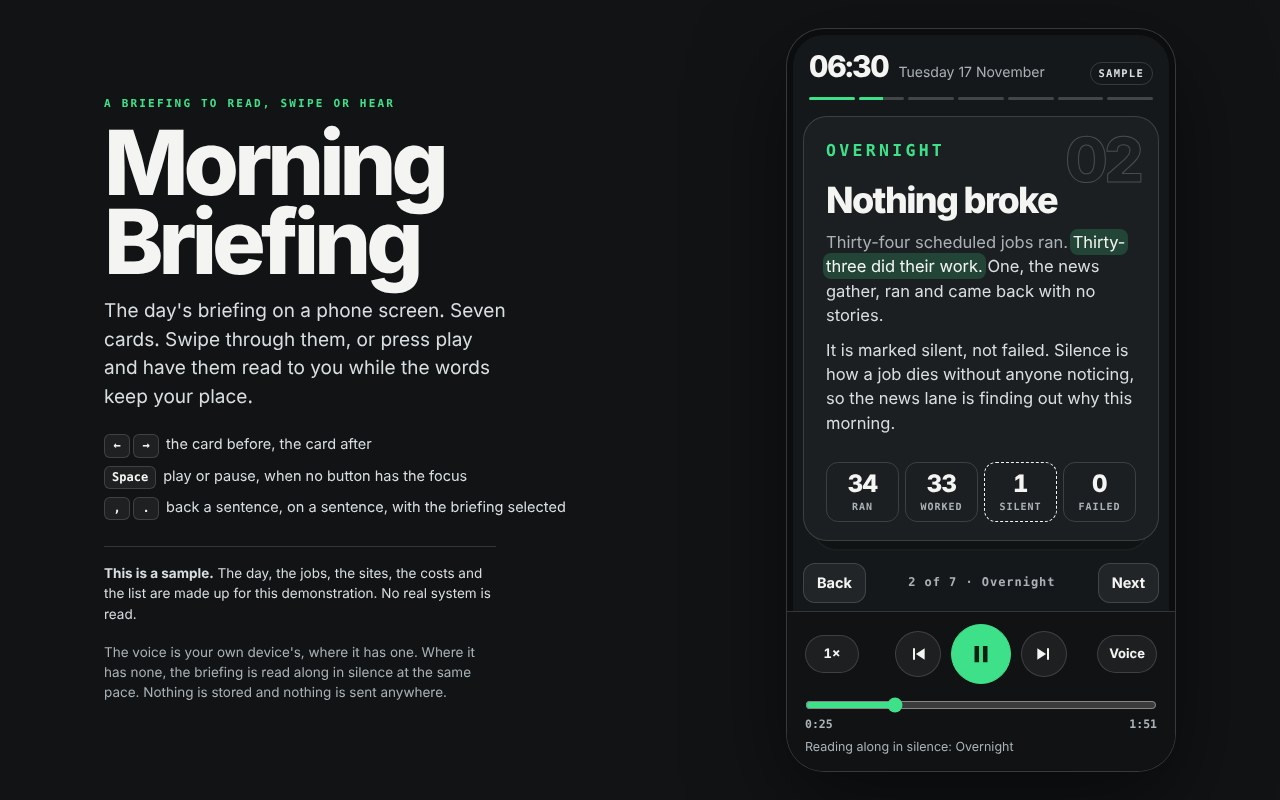
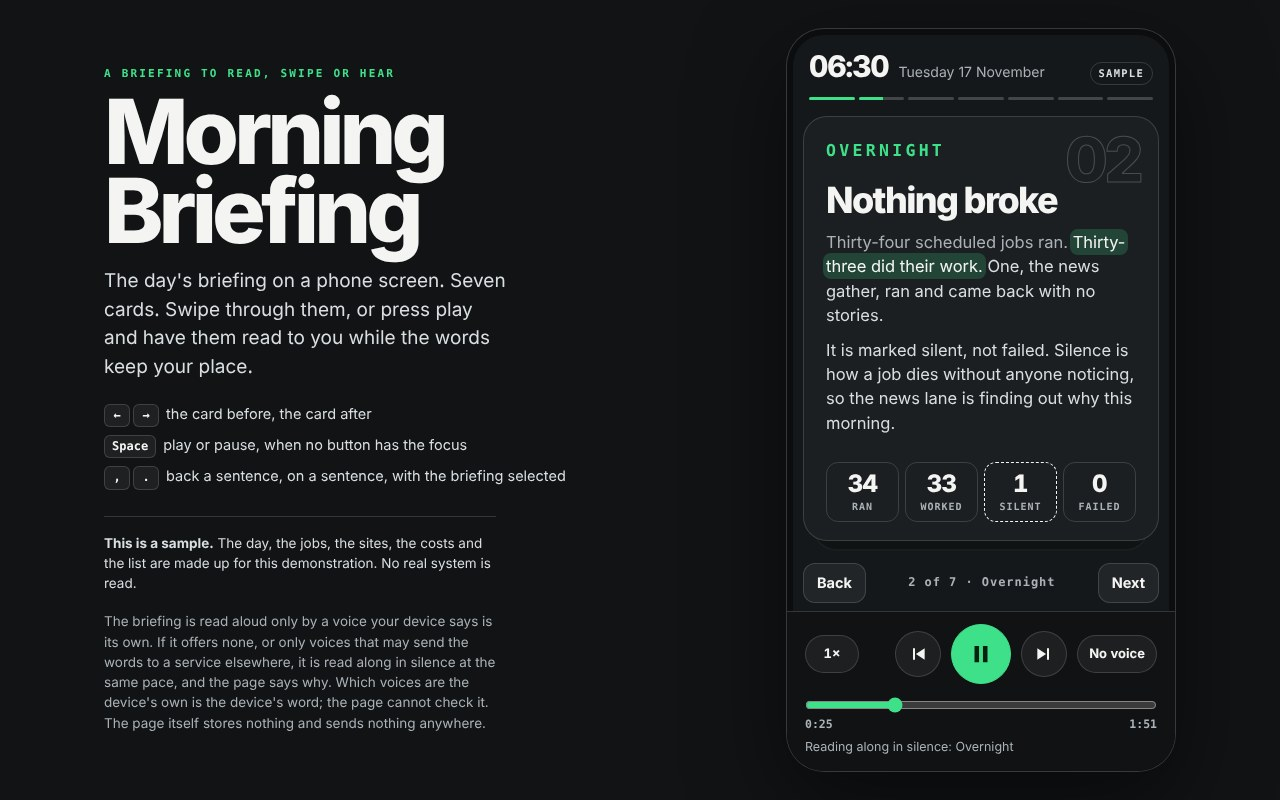
Morning Briefing: speak only through a voice the device calls its own
Acts on the outside review of pull request 141. Voice selection took any
English voice, preferred a remote British one over a local one, and fell
back to the browser's default, while the page said nothing is sent
anywhere. Now only a voice with localService === true, in English, is
given the words; the list is checked before every sentence and when the
browser says it has changed. With no such voice the briefing is read in
silence by the clock and the page says why. The promise is reworded to
what is true. README Status now says merging puts the page live at its
own address, unlisted but reachable by link.

Tests: pickVoice in the reader test; stand-in voice lists in the browser
check (local, remote only, mixed, none, foreign only, late loading, a
voice that goes away), asserting which voice each sentence was given.

Claude-Session: https://claude.ai/code/session_013B6jEDQfd86RBiChYmYX6U

diff --git a/demos/morning-briefing/js/app.js b/demos/morning-briefing/js/app.js
@@ -57,11 +57,18 @@ $('again').addEventListener('click', () => { R.seek(state, list, 0); if (state.p
    Voices go wrong in several ways: some never start, some never say they have finished, some say so at once. Each is caught, and the briefing is then read along in silence. The reader can switch the voice on again. */
 const synth = window.briefingSynth || ('speechSynthesis' in window ? window.speechSynthesis : null), Utter = window.briefingUtterance || window.SpeechSynthesisUtterance, none = !synth || !Utter;
 let voiceOn = !none, speaking = false, started = false, token = 0, manual = false, current = null, spokeAt = 0, held = 0, tooSoon = 0, stuck = 0;
-const voiced = () => voiceOn && !none;
+/* Only a voice the browser says is the device's own is ever given the words (see pickVoice in reader.js). The list is asked for again before every sentence, and again whenever the browser says it has changed: voices often arrive a moment after the page. */
+const voices = () => { if (none) return []; try { return [...(synth.getVoices() || [])]; } catch (err) { return []; } };
+let found = R.pickVoice(voices());
+const able = () => !none && !!found.voice, voiced = () => voiceOn && able();
+const why = () => R.NO_VOICE[found.why] || R.NO_VOICE.none;
+function heard() { const had = able(); found = R.pickVoice(voices()); if (able() && !had && voiceOn && state.playing) say('A voice of the device\'s own is ready. It reads from the next sentence.'); if (!able() && had) { hush(); if (state.playing) say(`${why()[0]} The briefing is read along in silence.`); } paint(); }
+if (!none) try { if (synth.addEventListener) synth.addEventListener('voiceschanged', heard); else if ('onvoiceschanged' in synth) synth.onvoiceschanged = heard; } catch (err) { /* the list is still asked for before every sentence */ }
 function hush() { token++; speaking = false; started = false; current = null; held = 0; if (synth) try { synth.cancel(); } catch (err) { /* nothing to stop */ } }
 function fail(why) { voiceOn = false; tooSoon = 0; stuck = 0; hush(); say(`${why} The briefing is read along in silence. Press Voice to try again.`); paint(); }
-function speak() { hush(); if (!voiced() || !state.playing) return; state.t = 0; const mine = token, line = list[state.i], u = new Utter(line.text); current = u; /* kept hold of: a browser may forget a voice nobody is holding, and then it never says it has finished */ u.lang = 'en-GB'; u.rate = state.rate;
-  try { const v = synth.getVoices().filter(x => /^en/i.test(x.lang)).sort((a, b) => (/GB/i.test(b.lang) ? 1 : 0) - (/GB/i.test(a.lang) ? 1 : 0))[0]; if (v) u.voice = v; } catch (err) { /* the default voice will do */ }
+function speak() { hush(); if (!voiced() || !state.playing) return;
+  const pick = R.pickVoice(voices()); if (!pick.voice) { found = pick; say(`${why()[0]} The briefing is read along in silence.`); paint(); return; } /* the device's own voice has gone since the list was last seen: nothing is given to whatever is left, and the clock carries the reading */
+  found = pick; state.t = 0; const mine = token, line = list[state.i], u = new Utter(line.text); current = u; /* kept hold of: a browser may forget a voice nobody is holding, and then it never says it has finished */ u.voice = pick.voice; u.lang = pick.voice.lang || 'en-GB'; u.rate = state.rate; /* always a chosen voice: never the browser's default, which may not be the device's own */
   u.onstart = () => { if (mine === token) { started = true; spokeAt = performance.now(); } };
   u.onend = () => { if (mine !== token) return; const took = (performance.now() - spokeAt) / 1000, est = line.dur / state.rate; speaking = false; current = null;
     if (!started || took < Math.min(0.25, est * 0.2)) { if (++tooSoon >= 2) fail('The voice here ends each sentence the moment it starts.'); return; } /* too quick to have been said: the clock carries this sentence, and a second such ending switches the voice off */
@@ -77,7 +84,7 @@ function step(dt) { if (!state.playing) return; const was = state.i, waiting = v
   if (waiting) { held += dt; if (held > 3 * list[state.i].dur / state.rate + 2) { speaking = false; if (++stuck >= 2) { fail('The voice stopped saying when it had finished.'); return; } happened(R.finish(state, list)); return; } } /* a voice that never says it has finished is not waited for for ever */
   const seen = R.advance(state, list, dt, waiting); if (seen.length) happened(seen); else if (state.i !== was) paint(); else progress(); }
 let last = null; function frame(now) { const dt = last === null ? 0 : Math.min(0.25, (now - last) / 1000); last = now; if (!manual) step(dt); requestAnimationFrame(frame); } requestAnimationFrame(frame);
-function toggle() { if (state.ended) { R.seek(state, list, 0); shown(0, true, true); } begun = true; state.playing = !state.playing; if (state.playing) { speak(); say(voiced() ? '' : 'Reading along in silence.'); } else { hush(); say('Paused.'); } paint(); }
+function toggle() { if (state.ended) { R.seek(state, list, 0); shown(0, true, true); } begun = true; state.playing = !state.playing; if (state.playing) { speak(); say(voiced() ? '' : !able() ? `${why()[0]} The briefing is read along in silence.` : 'Reading along in silence.'); } else { hush(); say('Paused.'); } paint(); }
 const fmt = r => `${r}×`;
 /* Switch a button off or on. One that is switched off while it holds the focus passes the focus on, so that the keys are never left on nothing. */
 const off = (b, is, next) => { if (is && document.activeElement === b) next.focus({ preventScroll: true }); b.disabled = is; };
@@ -88,9 +95,9 @@ function paint() { const l = list[state.i], engaged = begun && !state.ended, tit
   $('play').dataset.on = String(state.playing); $('play').setAttribute('aria-label', state.playing ? 'Pause' : state.ended ? 'Read the briefing again from the start' : begun ? 'Carry on reading' : 'Read the briefing aloud');
   off($('sback'), state.i === 0 && state.t <= 1.5, $('play')); off($('son'), state.i === list.length - 1, $('play'));
   $('rate').textContent = fmt(state.rate); $('rate').setAttribute('aria-label', `Speed ${fmt(state.rate)}: ${R.sayRate(state.rate).toLowerCase()}. Press to change.`);
-  $('voice').textContent = none ? 'No voice' : 'Voice'; $('voice').disabled = none; $('voice').setAttribute('aria-pressed', String(voiced()));
+  $('voice').textContent = able() ? 'Voice' : 'No voice'; off($('voice'), !able(), $('play')); $('voice').setAttribute('aria-pressed', String(voiced()));
   $('scrub').max = String(list.length - 1); $('scrub').value = String(state.i); $('scrub').setAttribute('aria-valuetext', `Card ${l.card + 1} of ${count}, ${title}: sentence ${l.n} of ${l.of}`);
-  $('now').textContent = state.playing ? `${voiced() ? 'Reading aloud' : 'Reading along in silence'}: ${title}` : state.ended ? 'The end.' : begun ? `Paused at ${title}, sentence ${l.n} of ${l.of}.` : index === 0 ? `About ${R.minutes(R.total(list) / state.rate)} to hear.` : 'Play starts from this card.';
+  $('now').textContent = state.playing ? `${voiced() ? 'Reading aloud' : 'Reading along in silence'}: ${title}` : state.ended ? 'The end.' : begun ? `Paused at ${title}, sentence ${l.n} of ${l.of}.` : !able() ? `${why()[1]}, so it is read in silence.` : index === 0 ? `About ${R.minutes(R.total(list) / state.rate)} to hear.` : 'Play starts from this card.';
   deck.classList.toggle('reading', engaged); for (const x of list) { x.el.classList.toggle('now', engaged && x === l); x.el.classList.toggle('done', engaged && x.card === l.card && x.n < l.n); }
   if (engaged && l.card === index && !moving) { const card = cards[index], a = l.el.getBoundingClientRect(), b = card.getBoundingClientRect(); if (a.bottom > b.bottom - 12) card.scrollTop += a.bottom - b.bottom + 24; else if (a.top < b.top + 12) card.scrollTop -= b.top - a.top + 24; cue(); } /* keep the sentence being read in sight on a tall card */
   progress(); }
@@ -98,7 +105,7 @@ const moved = () => { follow(); if (state.playing) speak(); paint(); };
 $('play').addEventListener('click', toggle);
 $('sback').addEventListener('click', () => { R.back(state, list); moved(); }); $('son').addEventListener('click', () => { R.on(state, list); moved(); });
 $('rate').addEventListener('click', () => { state.rate = R.nextRate(state.rate); if (state.playing) speak(); paint(); say(`${R.sayRate(state.rate)}.`); });
-$('voice').addEventListener('click', () => { if (none) return; voiceOn = !voiceOn; if (state.playing) { if (voiceOn) speak(); else hush(); } paint(); say(voiceOn ? 'Voice on.' : 'Voice off: reading along in silence.'); });
+$('voice').addEventListener('click', () => { if (!able()) return; voiceOn = !voiceOn; if (state.playing) { if (voiceOn) speak(); else hush(); } paint(); say(voiceOn ? 'Voice on.' : 'Voice off: reading along in silence.'); });
 $('scrub').addEventListener('input', e => { R.seek(state, list, +e.target.value); moved(); });
 /* Keys. The arrows and Space work anywhere on the page. The comma and the full stop, being ordinary characters, work only while the briefing itself has the focus, so that they cannot get in the way of someone who types or speaks to their device. */
 addEventListener('keydown', e => { if (e.ctrlKey || e.metaKey || e.altKey) return; const t = e.target, field = t.matches && t.matches('input, button, a, summary'), inside = $('phone').contains(t);
@@ -109,7 +116,7 @@ addEventListener('pagehide', hush);
 /* ---- Go ---- */
 shown(0, true);
 window.briefing = { /* for the checks in tools/ */
-  state: () => ({ index, i: state.i, t: state.t, playing: state.playing, rate: state.rate, ended: state.ended, voice: voiced(), speaking, started, none, begun, moving, count, lines: list.length, total: R.total(list) }),
+  state: () => ({ index, i: state.i, t: state.t, playing: state.playing, rate: state.rate, ended: state.ended, voice: voiced(), speaking, started, none, able: able(), why: found.why, begun, moving, count, lines: list.length, total: R.total(list) }),
   lines: () => list.map(l => ({ text: l.text, card: l.card, n: l.n, of: l.of, dur: l.dur, start: l.start })),
   manual(on) { manual = on; }, tick(dt) { step(dt); }, /* take the clock out of the page's hands, and move it by hand */
 };

diff --git a/demos/morning-briefing/js/reader.js b/demos/morning-briefing/js/reader.js
@@ -56,6 +56,22 @@ export const position = (state, list) => ({ at: list.length ? (list[state.i].sta
 export const nextRate = rate => RATES[(RATES.indexOf(rate) + 1) % RATES.length];
 export const sayRate = rate => (rate === 1 ? 'Normal speed' : rate < 1 ? 'Slower' : rate === 1.25 ? 'A little faster' : 'Faster');
 
+// ---- The voice ----
+// Which of the device's voices may be given the words. Only one the browser says is the device's own (localService === true): a voice that is not
+// may send the words to a service elsewhere to be spoken. Of those, English only, British English first. Returns { voice, why }: voice is null when
+// none may be used, and why says which case it is: 'ok', 'none' (no voices at all, or not loaded yet), 'remote' (voices, but none the device's own),
+// 'foreign' (the device's own voices, but none English). The browser's word on localService is all a page can go on.
+export function pickVoice(voices) { const all = Array.isArray(voices) ? voices.filter(Boolean) : []; if (!all.length) return { voice: null, why: 'none' };
+  const own = all.filter(v => v.localService === true); if (!own.length) return { voice: null, why: 'remote' };
+  const english = own.filter(v => /^en([-_]|$)/i.test(String(v.lang || ''))); if (!english.length) return { voice: null, why: 'foreign' };
+  return { voice: english.find(v => /^en[-_]GB$/i.test(String(v.lang))) || english[0], why: 'ok' }; }
+// Why there is no voice, said in full (for the announcement) and in short (for the line under the player).
+export const NO_VOICE = {
+  none: ['This device has not offered a voice of its own, or its voices are still loading.', 'No voice of the device\'s own yet'],
+  remote: ['The only voices here may send the words to a service elsewhere to be spoken, so none of them is used.', 'No voice that keeps the words on the device'],
+  foreign: ['None of this device\'s own voices speaks English.', 'No English voice of the device\'s own'],
+};
+
 // ---- Swiping ----
 // What a finger's drag across a card of this width comes to: -1 go back, 1 go on, 0 stay. dx is how far it moved (left is negative), vx how fast at the end, in pixels a millisecond.
 // A long drag or a quick flick turns the card; a short slow one, or a flick back the other way at the end, does not.

diff --git a/demos/morning-briefing/index.html b/demos/morning-briefing/index.html
@@ -198,7 +198,7 @@
 
 <footer class="foot">
   <p><strong>This is a sample.</strong> The day, the jobs, the sites, the costs and the list are made up for this demonstration. No real system is read.</p>
-  <p>The voice is your own device's, where it has one. Where it has none, the briefing is read along in silence at the same pace. Nothing is stored and nothing is sent anywhere.</p>
+  <p>The briefing is read aloud only by a voice your device says is its own. If it offers none, or only voices that may send the words to a service elsewhere, it is read along in silence at the same pace, and the page says why. Which voices are the device's own is the device's word; the page cannot check it. The page itself stores nothing and sends nothing anywhere.</p>
 </footer>
 </div>
 <p class="sr" id="live" role="status"></p>

diff --git a/demos/morning-briefing/REVIEW.md b/demos/morning-briefing/REVIEW.md
@@ -23,19 +23,21 @@ Ready for Kol to try on a phone. Not published, not in the gallery or the sitema
 
 ## Checks run (17 Nov 2026)
 
-Verified by running. All passed on the code as committed.
+Verified by running. All passed on the code as committed, and again after the outside review below.
 
 - `node demos/morning-briefing/tools/reader.test.mjs`: pass.
   - Sentences split at real stops only, and lose nothing: abbreviations, initials, figures, times, quotes, list numbers, and a figure that starts a sentence.
   - Figures count as the words they are said in. Lines follow one another.
   - The player advances, carries over, holds for a voice, ends once, seeks within bounds and changes speed.
   - A long drag, a flick, a twitch and a drag taken back each come out as they should.
+  - Only a voice the device calls its own (`localService` exactly true), in English, is chosen, British English first; with none, the reason is told apart: no voices, remote voices only, or no English one.
 - `node demos/morning-briefing/tools/smoke.mjs`: pass, in headless Chromium.
   - Scripts off: seven cards one after another, saying it is a sample, with no control that could not work.
   - The page reads exactly the 42 sentences the arithmetic makes of its words, with the same lengths.
   - Buttons and arrow keys turn the cards and stop at the ends, where the focus passes to the other button. A long drag turns a card, tipping it by the angle the arithmetic gives. A press on a tick box ticks it; a drag across one turns the card and does not tick.
   - Looking through the cards marks nothing as read until Play has been pressed.
   - The player, in silence with the clock moved by hand: the sentence being read is marked; the card turns by itself; pause holds; speed changes the pace and the length; back, on, the slider and the keys work; a sentence chosen while a card is turning is kept; the end stops, says so, and starts again.
+  - Stand-in voice lists, local only, remote only, mixed, none, foreign only and late loading, with the voice each sentence was given recorded: words go only to a voice the device calls its own, never to a remote one or the default; with none the page says why and reads in silence by the clock; a voice of its own that loads late takes over from the next sentence; one that goes away is not replaced by what is left.
   - With a stand-in voice: each sentence goes to the device in British English at the speed chosen; the reading waits for the voice. Voices that never start, never finish, finish at once or fail are each caught, said, read in silence and can be tried again.
   - Eleven window sizes, from 320x568 to 1920x1080, with four phones on their side: Play and the card in sight on every card, nothing overlapping. A real touch swipe turns the card both ways on six of them. A tall card says there is more below.
   - Reduced motion; axe WCAG 2.2 A and AA; no console errors; no outside requests.
@@ -48,6 +50,7 @@ Verified by running. All passed on the code as committed.
 3. **A screen reader.** The speech of the briefing and the speech of a screen reader may talk over each other; that has not been heard.
 4. Safari and Firefox. A locked screen on iOS.
 5. A drag in hand at the moment the reading reaches the next card: handled in the code, not covered by a check.
+6. **Which voices real devices call their own.** The page trusts the browser's `localService` flag; it cannot check it. Which voices iOS, Android and desktop browsers mark as local has not been looked at on any real device. If a phone marks all its voices as remote, this page stays silent there; that is the intended trade, but how often it happens is unknown.
 
 ## Known limits
 
@@ -91,6 +94,19 @@ A second pass by a separate Claude agent (Opus), read-only, given the brief and 
 | 26 | The Space hint did not say that a focused button takes the key | It says so | |
 | 27 | The card beneath showed behind the Back and Next buttons | It stays inside the deck | browser check |
 | 28 | With no voice, Play stalled two and a half seconds | See 4. The wait is now four seconds, for slow voices, and is then said | browser check |
+
+## Outside review
+
+Reviewed by ChatGPT in chat mode at Pro, driven by another Claude session at the owner's request, 17 November 2026, as one review of three demos (pull requests 140, 141 and 142). It read the code and pictures and did not run the page. Its score for the three together was 7/10, HOLD; for this demo (pull request 141) its verdict was hold. Only the findings about this demo and those it applied to all three are dealt with here. Each was checked by running it or by reading the code at the line named.
+
+| Finding | What was done | Held by |
+|---|---|---|
+| Voice selection takes any English voice, falls back to the browser's default, never checks `localService`, while the page promised nothing is sent anywhere. True: a run with stand-in voices gave the words to a remote voice when only remote voices were offered, to the remote British voice ahead of a local American one when both were, and to the browser's default when none were | `pickVoice` in `js/reader.js` chooses only a voice whose `localService` is exactly true, English, British first. The page asks for the list again before every sentence and when the browser says it has changed, always sets the chosen voice, and otherwise reads in silence by the clock and says why. The promise now says what is true: read aloud only by a voice the device says is its own, otherwise in silence; the page cannot check the device's word | reader test (local, remote, unsaid, mixed, none, foreign); browser check with stand-in lists: remote only, remote and unsaid, none, foreign only, mixed, late loading, and a voice that goes away. The new browser checks fail on the old code |
+| (All three) The demo's own suites are not run by the site's CI | True: `.github/workflows/seo.yml` runs the site's shared checks, not `tools/reader.test.mjs` or `tools/smoke.mjs`. Not done: the workflows are outside this demo's folder, which is all this work may change. A decision for the owner | |
+| (All three) Acceptance evidence is incomplete: no reference comparisons, no real phone, no real voice heard | True. Not done: none of it can be done on this machine, which has no phone, no speakers and no voices | "Not verified" above |
+| (All three) "Unlisted" will not mean private after merging | True: `scripts/build-site.py` copies the whole `demos` folder into the bundle that is deployed, and a run of it put this page in `_site/demos/morning-briefing/`. `noindex` only keeps it out of search. README's Status now says so plainly | by reading and a build run |
+| No identifiable personal records; the briefing labels its invented content | Agreed. Nothing to do | |
+| Not verified by the reviewer: live deployment, real touch, Safari and Firefox, screen readers, actual speech, print, phone performance | Still not verified here either; see "Not verified" above. No real voice has been heard: the voice checks use stand-ins | |
 
 ## Provenance
 

diff --git a/demos/morning-briefing/README.md b/demos/morning-briefing/README.md
@@ -12,8 +12,8 @@ Use it as the reference for phone-first screens, card decks and anything with a 
 - **Seven cards.** The short version, overnight, sites, lanes, costs, today's three things, and the end. One on top, the next showing its edge beneath.
 - **Swipe.** Drag a card left to go on, right to go back, from anywhere on it. It follows the finger and tips as it goes. A short drag, or one taken back, lets it settle where it was. Up and down scrolls a tall card, and a tall card says when there is more below.
 - **Or use the buttons and keys.** Back and Next under the cards; left and right arrows; Space to play or pause. With the briefing selected, comma and full stop go back and on a sentence.
-- **Listen.** Play reads the briefing in your device's own voice, one sentence at a time. The sentence being read is marked and the ones before it go quiet. When the reading reaches the next card, the card turns by itself.
-- **Read along in silence.** Switch the voice off and the marking carries on at the same pace. A device with no voice does this from the start, and says so.
+- **Listen.** Play reads the briefing one sentence at a time in a voice your device says is its own (the browser's `localService` flag). The sentence being read is marked and the ones before it go quiet. When the reading reaches the next card, the card turns by itself.
+- **Read along in silence.** Switch the voice off and the marking carries on at the same pace. A device that offers no voice of its own does this from the start and says why: no voices yet (they may still be loading), only voices that may send the words to a service elsewhere, or no English one. Such voices are never given the words, and neither is the browser's default. If a voice of the device's own arrives later, it takes over from the next sentence.
 - **Voices that go wrong.** A voice that never starts, never says it has finished, says so at once, or fails is caught. The page says what happened, reads along in silence, and leaves the Voice button on so that it can be tried again.
 - **Move about.** Back a sentence, on a sentence, a slider over the whole briefing, and four speeds. Turning a card takes the reading with it.
 - **Today's list** has tick boxes. Ticks are not kept: nothing is stored.
@@ -22,9 +22,9 @@ Use it as the reference for phone-first screens, card decks and anything with a 
 ## How it is made
 
 - `index.html`: every word of the briefing, the styles and the markup. On a wide screen it shows a phone beside a title; on a phone the phone is the page.
-- `js/reader.js`: splitting prose into sentences, how long each takes to say, the player (advance, hold for a voice, seek, speed, end) and what a drag comes to. No page and no sound, so all of it runs in Node.
+- `js/reader.js`: splitting prose into sentences, how long each takes to say, the player (advance, hold for a voice, seek, speed, end), which voice may be used (`pickVoice`) and what a drag comes to. No page and no sound, so all of it runs in Node.
 - `js/app.js`: turns the cards, listens to fingers and keys, speaks through the Web Speech API where there is one, and paints the player.
-- No library, no audio file, no outside request, nothing stored.
+- No library, no audio file, no outside request from the page, nothing stored. The words go only to a voice the device calls its own; whether that is true is the device's word, which a page cannot check.
 
 ## Checks
 
@@ -47,7 +47,7 @@ The second and third need the site's development packages (Playwright and axe-co
 ## Honest limits
 
 - **Nobody has heard it.** The checks use a stand-in for the device's voice. How a real voice sounds, how well the marking keeps up with it, and whether British English is what a given phone offers are all unheard.
-- The voice is the device's. Some browsers have none, some stop speaking when the screen locks, and none let a page seek within a sentence: pausing and resuming says the sentence again from its start.
+- The voice is the device's. Some browsers have none, some may offer only voices they mark as not their own (and then this page stays silent), some stop speaking when the screen locks, and none let a page seek within a sentence: pausing and resuming says the sentence again from its start.
 - Timings are estimates at 165 words a minute. With a voice, the player waits for the voice; the clock times shown are still the estimates.
 - Nobody has swiped it with a real finger. The checks send touch input through the browser itself, which is closer than made-up events and is what caught a swipe that never turned a card, but it is not a hand on glass.
 - Sentence splitting is rules of thumb. It is right for the 42 sentences here and for the awkward cases in the test; prose can always be found that fools it.
@@ -55,4 +55,6 @@ The second and third need the site's development packages (Playwright and axe-co
 
 ## Status
 
-Unlisted. The page carries `noindex`, and it is not in the gallery or the sitemap. Nothing here is published.
+A draft, and unlisted. The page carries `noindex`, and it is not in the gallery or the sitemap.
+
+Unlisted is not private. The site deploys whatever is merged, so merging this would put the page on the live site at its own address (`/demos/morning-briefing/`): not listed anywhere, but reachable by anyone who has the link.
